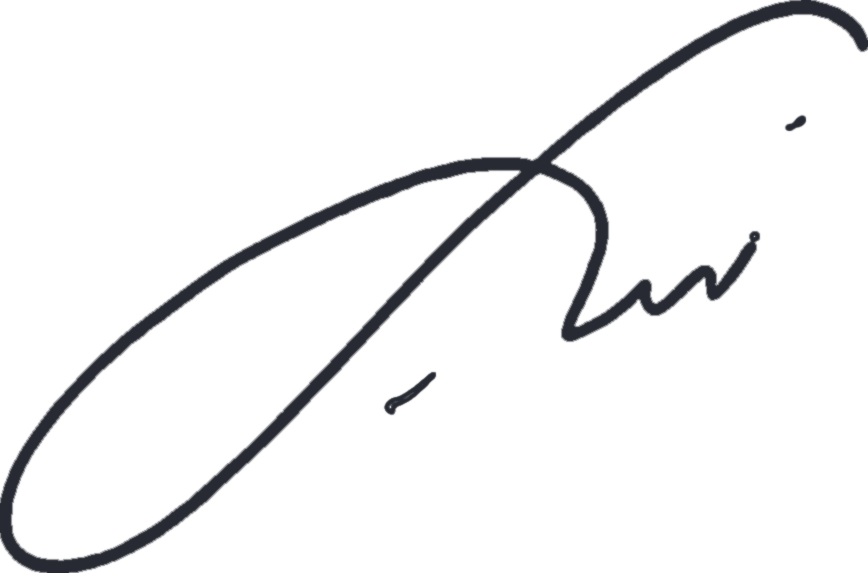
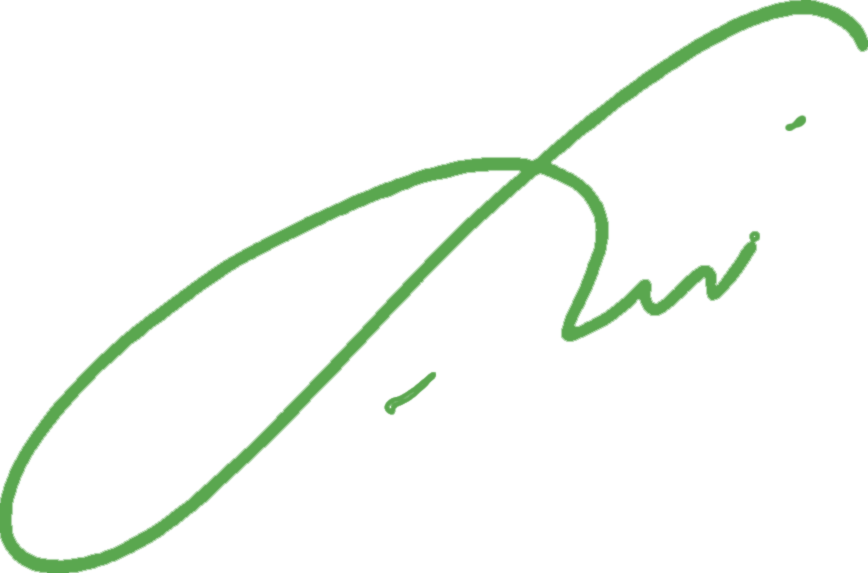
feat: certificate signature in its original green (preview only)
Owner, 18 Nov: keep the signature green like the original. Same smooth,
transparent edge and placement; ink is the original #5AA74F.

Changed region(s): [[0.0, 0.0, 1.0, 1.0], [0.4355, 0.6527, 0.4977, 0.7417], [0.9021, 0.2077, 0.9332, 0.2373]]

diff --git a/certs/signature.test.ts b/certs/signature.test.ts
@@ -12,7 +12,7 @@ describe('the signatory signature on the certificate', () => {
     expect(t).toMatch(/<img[^>]+class="signature"[^>]+src="\/forma\/signature\.png"/);
   });
 
-  it('is near-black pen ink on a transparent background (the green original recoloured)', () => {
+  it('is the original green ink (#5AA74F, as the owner asked) on a transparent background', () => {
     const png = PNG.sync.read(read('certs/forma/signature.png'));
     const at = (x: number, y: number) => png.data.subarray((y * png.width + x) * 4, (y * png.width + x) * 4 + 4);
     expect(at(png.width - 2, png.height - 2)[3]).toBe(0); // background is transparent
@@ -21,8 +21,9 @@ describe('the signatory signature on the certificate', () => {
       const [r, g, b, a] = png.data.subarray(i, i + 4);
       if (a > 200) {
         ink++;
-        expect(Math.max(r, g, b)).toBeLessThan(60);
-        expect(Math.abs(g - r)).toBeLessThan(20); // no green left
+        expect(Math.abs(r - 90)).toBeLessThan(25);
+        expect(Math.abs(g - 167)).toBeLessThan(25);
+        expect(Math.abs(b - 79)).toBeLessThan(25);
       }
     }
     expect(ink).toBeGreaterThan(5000);
